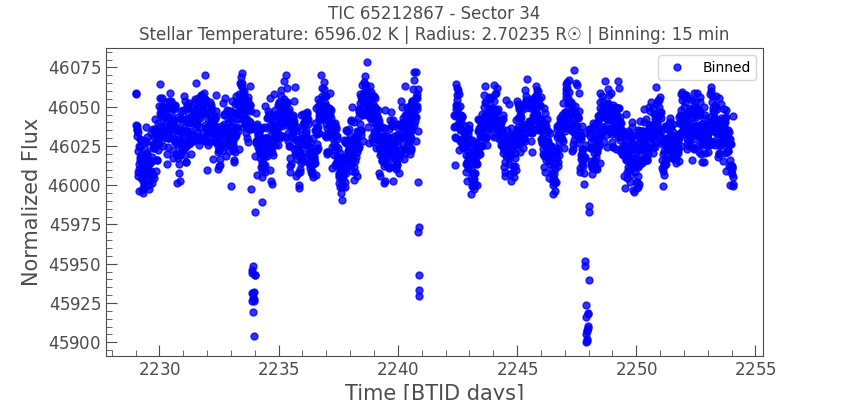
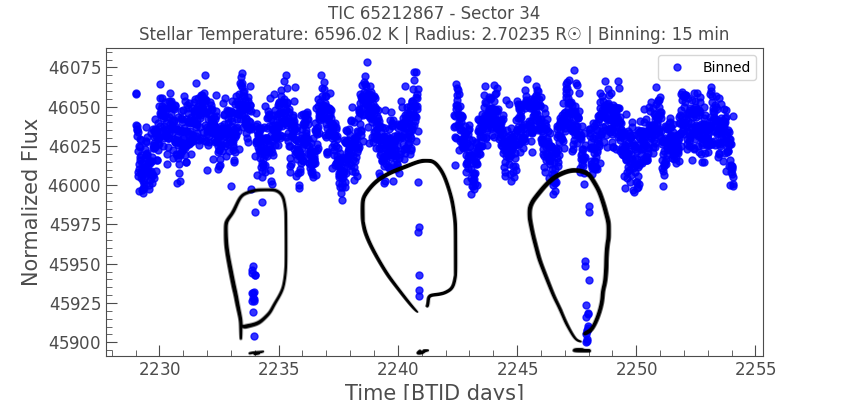
🪻🐔 ↝ [SSG-254 SSG-262 SSG-263]: New planets

diff --git a/buckets/upload.py b/buckets/upload.py
@@ -4,7 +4,7 @@ from pathlib import Path
 
 # Initialize Supabase client
 def init_supabase_client():
-    url = "http://127.0.0.1:54321"  
+    url = 'https://api.starsailors.space' # "http://127.0.0.1:54321"  
     key = "eyJhbGciOiJIUzI1NiIsInR5cCI6IkpXVCJ9.eyJpc3MiOiJzdXBhYmFzZS1kZW1vIiwicm9sZSI6ImFub24iLCJleHAiOjE5ODM4MTI5OTZ9.CRXP1A7WOeoJeXxjNni43kdQwgnWNReilDMblYTn_I0"
     return create_client(url, key)
 
@@ -45,8 +45,8 @@ def insert_or_update_anomalies(supabase: Client, anomaly_id, content, anomaly_se
             data = {
                 "id": anomaly_id, 
                 "content": content, 
-                "anomalytype": "telescopeSignal", # "telescopeMinor", # "telescopeMinor", # "satellitePics", # "gaseousMapping", # "planet",
-                "anomalySet": "telescope-awa", # 'active-asteroids', # "telescope-minorPlanet", # "satellite-planetFour", # "lidar-jovianVortexHunter", # "cloudspottingOnMars", # "telescope-tess", # anomaly_set,
+                "anomalytype": "planet", # "telescopeSignal", # "telescopeMinor", # "telescopeMinor", # "satellitePics", # "gaseousMapping", # "planet",
+                "anomalySet": "telescope-tess", # "telescope-awa", # 'active-asteroids', # "telescope-minorPlanet", # "satellite-planetFour", # "lidar-jovianVortexHunter", # "cloudspottingOnMars", # "telescope-tess", # anomaly_set,
                 # "parentAnomaly": 50,
                 "avatar_url": avatar_url
             }
@@ -92,8 +92,8 @@ def upload_directory_to_supabase(supabase: Client, bucket_name: str, local_direc
 
 def main():
     supabase = init_supabase_client()
-    bucket_name = 'telescope/telescope-areWeAlone' # 'telescope/automatons-ai4Mars' # "telescope/telescope-dailyMinorPlanet" # "telescope/satellite-planetFour" # "telescope/lidar-jovianVortexHunter" # "clouds" #telescope/telescope-dailyMinorPlanet"
-    local_directory = 'telescope/telescope-areWeAlone' # "automatons/automatons-ai4Mars" # "telescope/telescope-dailyMinorPlanet" # "satellite/satellite-planetFour" # "satellite/lidar-jovianVortexHunters" # "clouds" #"telescope/telescope-dailyMinorPlanet" 
+    bucket_name = 'anomalies' # 'telescope/telescope-areWeAlone' # 'telescope/automatons-ai4Mars' # "telescope/telescope-dailyMinorPlanet" # "telescope/satellite-planetFour" # "telescope/lidar-jovianVortexHunter" # "clouds" #telescope/telescope-dailyMinorPlanet"
+    local_directory = 'anomalies' # 'telescope/telescope-areWeAlone' # "automatons/automatons-ai4Mars" # "telescope/telescope-dailyMinorPlanet" # "satellite/satellite-planetFour" # "satellite/lidar-jovianVortexHunters" # "clouds" #"telescope/telescope-dailyMinorPlanet" 
     
     upload_directory_to_supabase(supabase, bucket_name, local_directory)
 

diff --git a/buckets/periodCurve.py b/buckets/periodCurve.py
@@ -62,9 +62,7 @@ def plot_sectors_with_temperature(tic_id, bin_time_minutes=15):
 
 # List of TIC IDs to process
 tic_ids = [
-    418343229, 244161191, 248250955, 384549882, 421006834, 277853911, 271167979,
-    238004786, 349966879, 387423096, 34068865, 206609630, 77228304, 357972447,
-    4294779, 348995212, 232568235, 235077268, 137843225, 98833877, 187029841,
+    405559035, 461491274, 167804011, 52368076, 251848941
 ]
 # tic_ids = [
 #     440801822, 345724317, 329981856, 284300833, 277039287, 269343479, 
